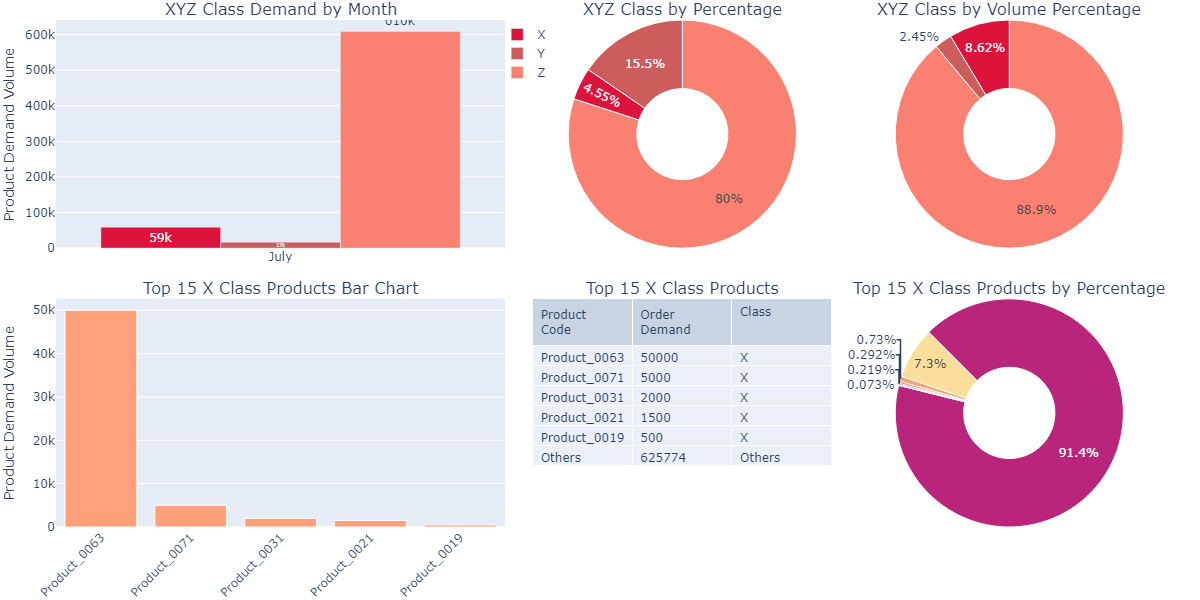
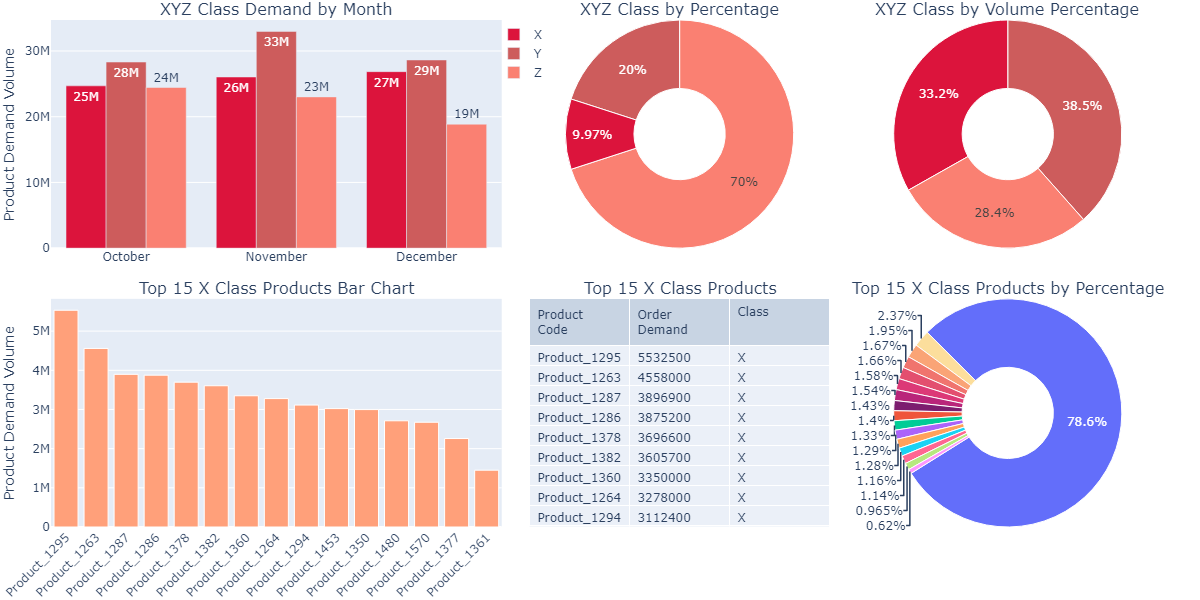
add months period choices

diff --git a/abc_functions.py b/abc_functions.py
@@ -18,14 +18,38 @@ def filter_dataset(data, period):  # filter dataset for XYZ Classification Funct
 
     # get the last 3 months data
     months = data_copy.month.unique()
+
+    last_6_months = months[-6:]
+    last_5_months = months[-5:]
+    last_4_months = months[-4:]
     last_3_months = months[-3:]
+    last_2_months = months[-2:]
+    last_1_month = months[-1:]
 
     # filtering the data based on period choice
-    if period == 'Last 3 Months':
+    if period == '5 Months':
+        data_period = data_copy.loc[data_copy['month'].apply(
+            lambda x: x in last_5_months)]
+
+    elif period == '4 Months':
+        data_period = data_copy.loc[data_copy['month'].apply(
+            lambda x: x in last_4_months)]
+
+    elif period == '3 Months':
         data_period = data_copy.loc[data_copy['month'].apply(
             lambda x: x in last_3_months)]
+
+    elif period == '2 Months':
+        data_period = data_copy.loc[data_copy['month'].apply(
+            lambda x: x in last_2_months)]
+
+    elif period == '1 Month':
+        data_period = data_copy.loc[data_copy['month'].apply(
+            lambda x: x in last_1_month)]
+
     else:
-        data_period = data_copy
+        data_period = data_copy.loc[data_copy['month'].apply(
+            lambda x: x in last_6_months)]
 
     data_period.drop(columns='month', inplace=True)
 

diff --git a/app.py b/app.py
@@ -1,3 +1,5 @@
+import plotly.express as px
+import plotly.graph_objects as go
 from datetime import datetime
 import streamlit as st
 from abc_functions import abc_classification, abc_xyz_class, filter_dataset, load_data, summary_poster
@@ -48,7 +50,7 @@ with b_input:
 
 with duration_input:
     month_duration = st.selectbox(
-        'ABC Classification Period', ('6 Months', 'Last 3 Months'))
+        'ABC Classification Period', ('6 Months', '5 Months', '4 Months', '3 Months', '2 Months', '1 Month'))
     filtered_data = filter_dataset(dataset, month_duration)
 
 
@@ -71,7 +73,7 @@ xyz_period, x_input, y_input = st.columns([1, 1, 1])
 
 with xyz_period:
     xyz_month_period = st.selectbox(
-        'XYZ Classification Period', ('6 Months', 'Last 3 Months'))
+        'XYZ Classification Period', ('6 Months', '5 Months', '4 Months', '3 Months', '2 Months', '1 Month'))
     xyz_filtered_data = filter_dataset(dataset, xyz_month_period)
 
 with x_input:
